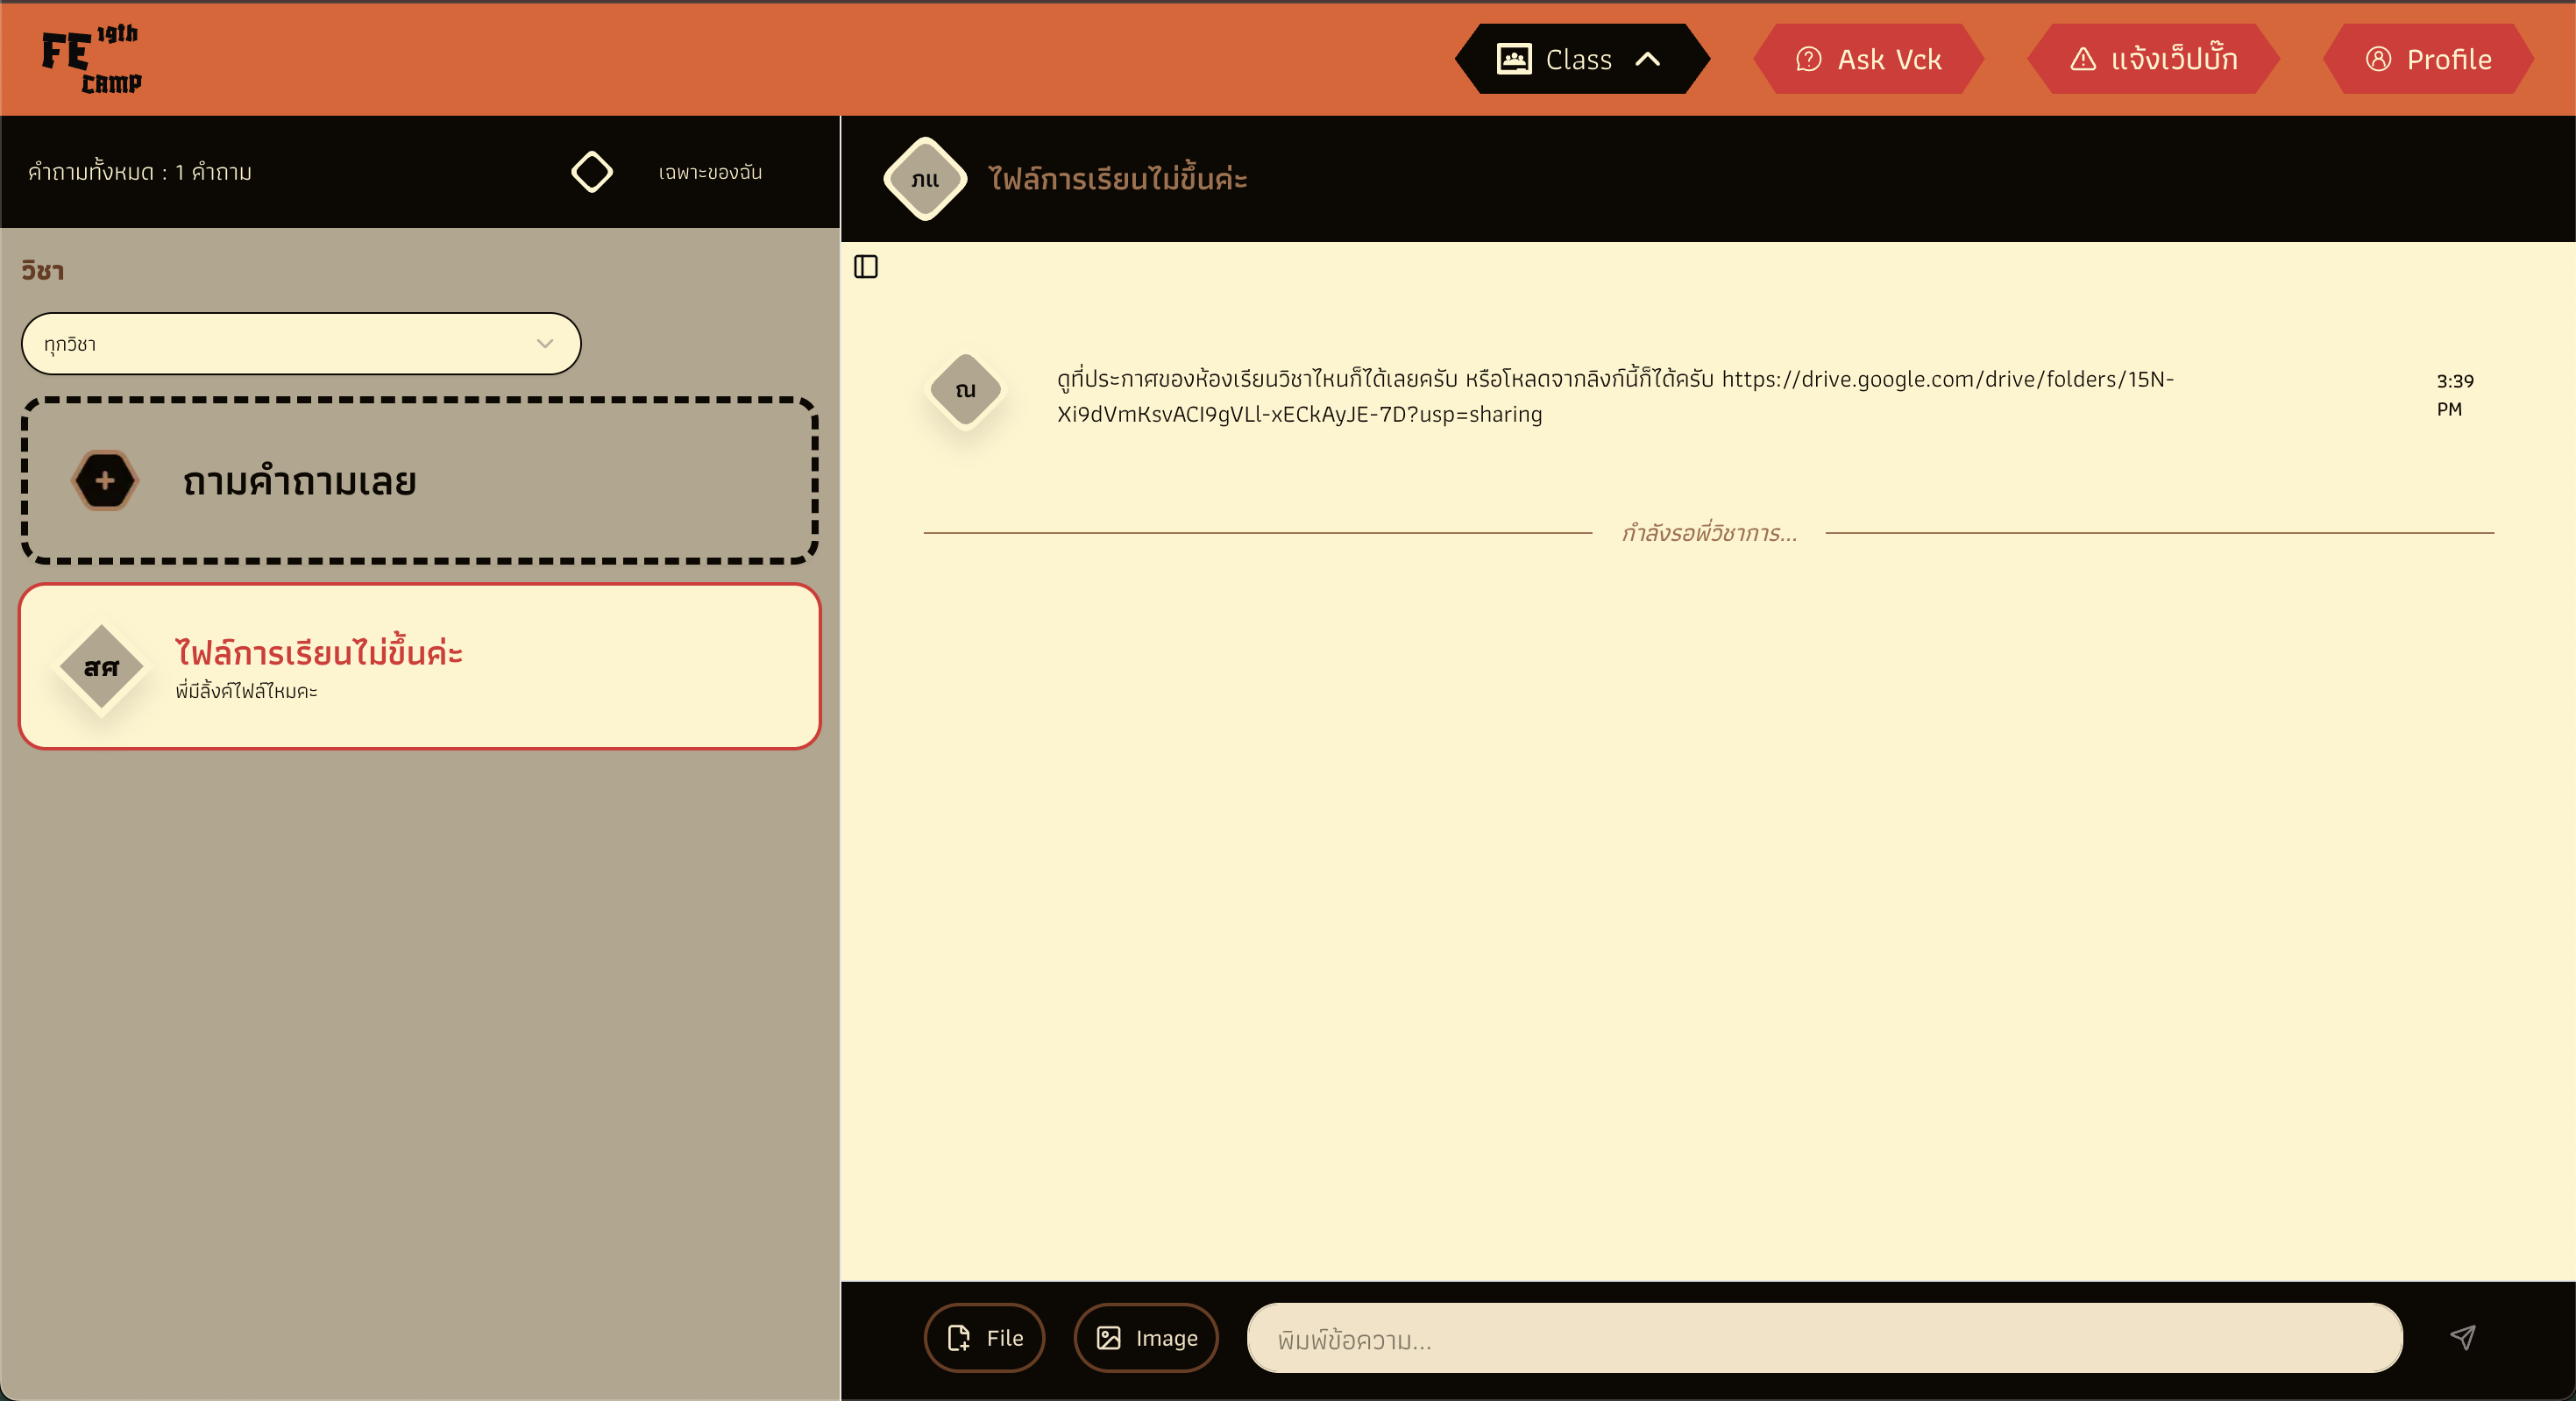
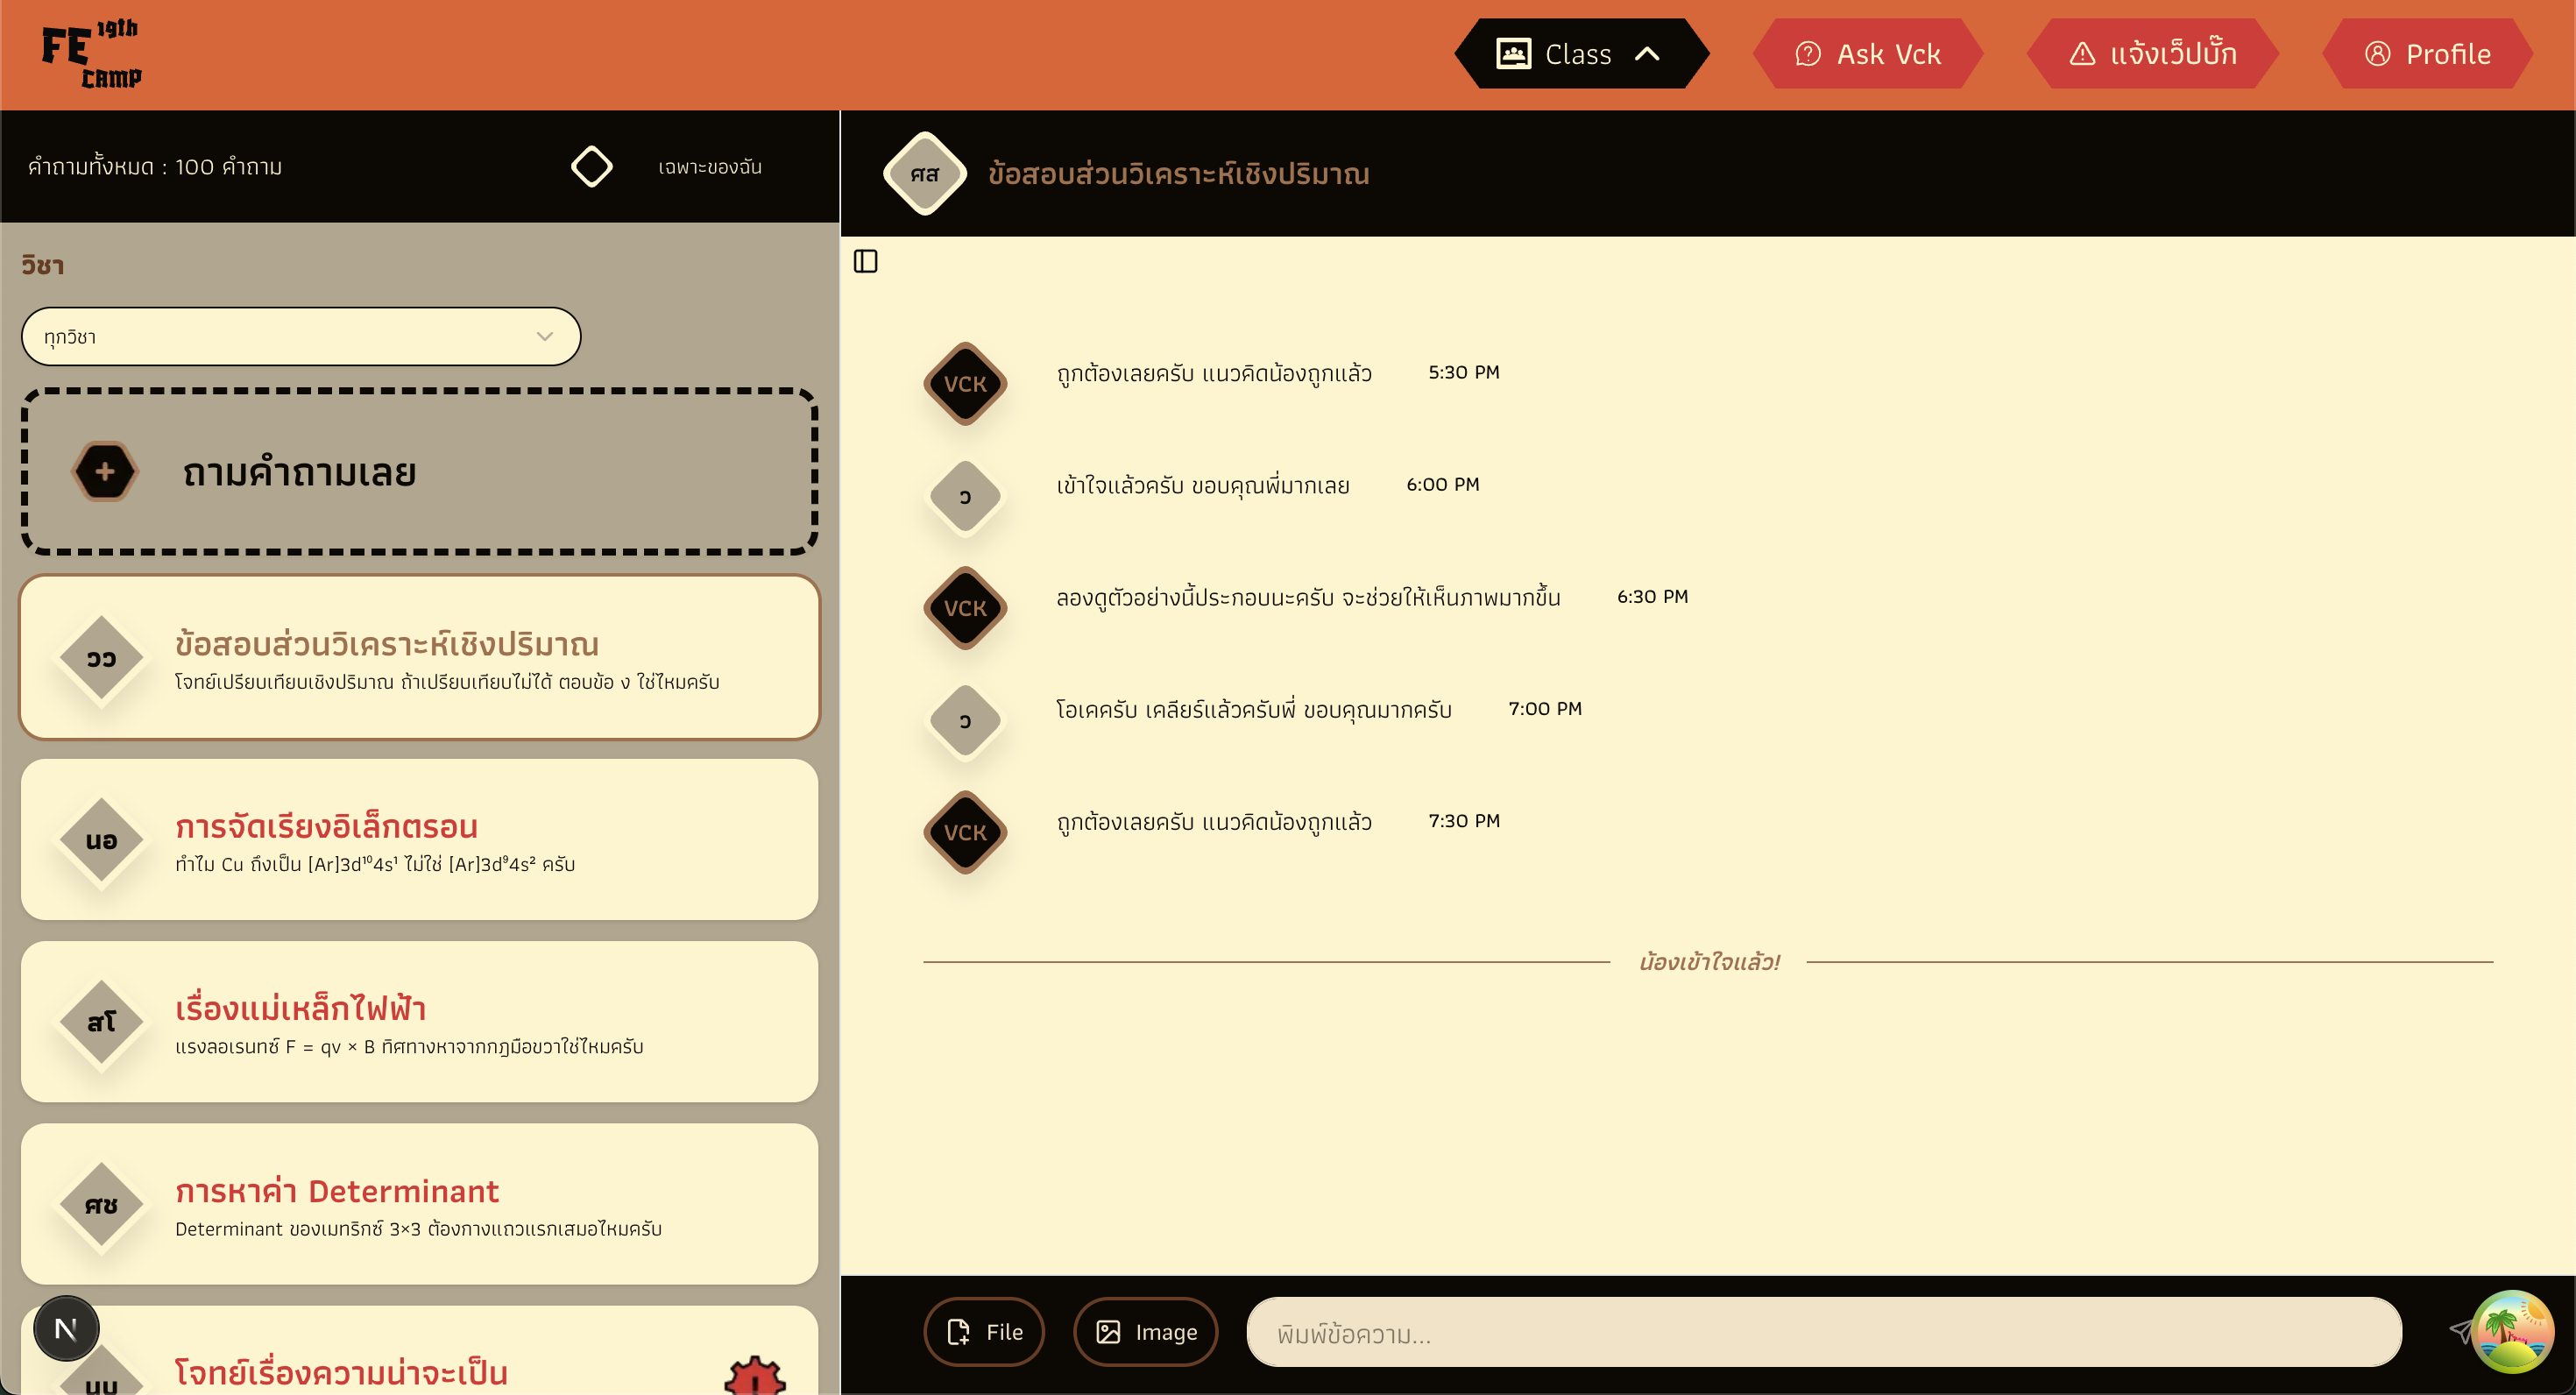
feat: add more gallery images and update FECamp19 LMS project details

diff --git a/src/content/projects/fecamp19-lms.md b/src/content/projects/fecamp19-lms.md
@@ -12,12 +12,18 @@ tech:
     "Nginx",
     "Claude Code",
   ]
-github: "https://github.com/narumedsr-p"
+github: "https://github.com/narumedsr-p/LMS-FECamp19th"
 images:
   - /images/fecamp19/1-Home.png
   - /images/fecamp19/2-MyClass.png
   - /images/fecamp19/3-Classroom(CamperView).png
   - /images/fecamp19/4-AskVCK.png
+  - /images/fecamp19/5-Profile-Info.png
+  - /images/fecamp19/6-Profile-Score.png
+  - /images/fecamp19/7-StaffInfo.png
+  - /images/fecamp19/8-CamperInfo-General.png
+  - /images/fecamp19/9-CamperInfo-Detail.png
+  - /images/fecamp19/10-PhaseSite.png
 featured: true
 draft: false
 date: 2026-01-01
@@ -29,7 +35,7 @@ FECamp 19 LMS is the internal web platform built for FECamp 19, the Faculty of E
 
 The system was designed to serve around 400 concurrent users and handle everything from distributing lecture materials to tracking exam performance and collecting feedback — all within a tightly role-gated access model.
 
-I was part of the backend team, responsible for designing and implementing the Spring Boot API, infrastructure deployment, and database management. The frontend was built separately by other team members and is not part of my contribution.
+I was part of the backend team in senior role, responsible for designing and implementing the Spring Boot API, infrastructure deployment, and database management. The frontend was built separately by other team members and is not part of my contribution.
 
 ## Features
 